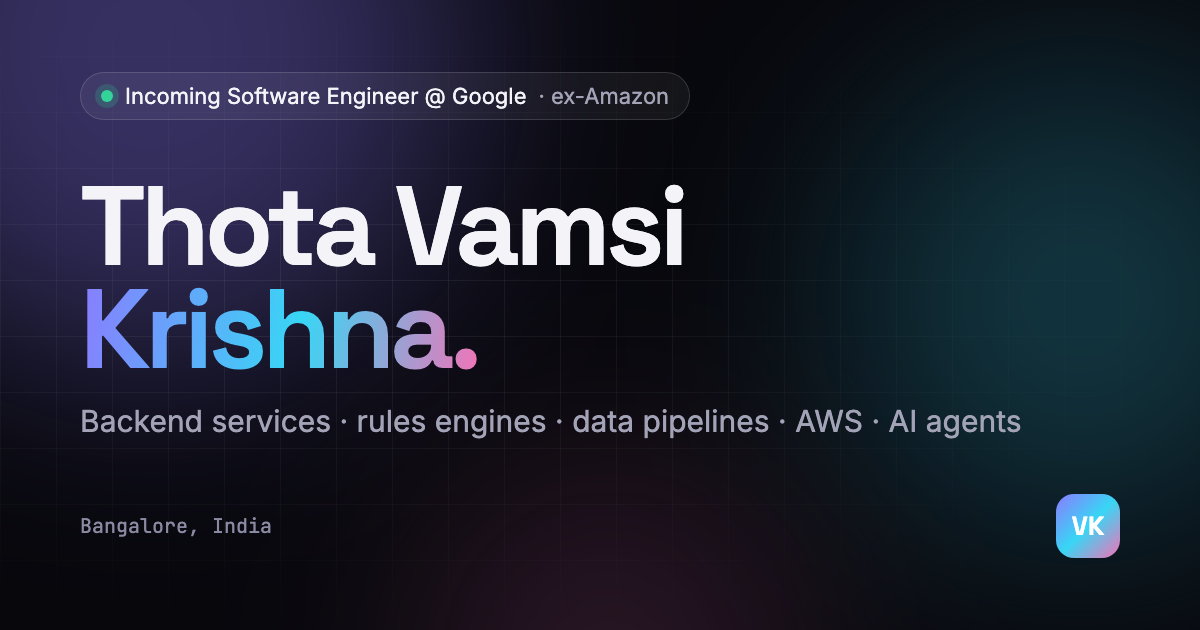
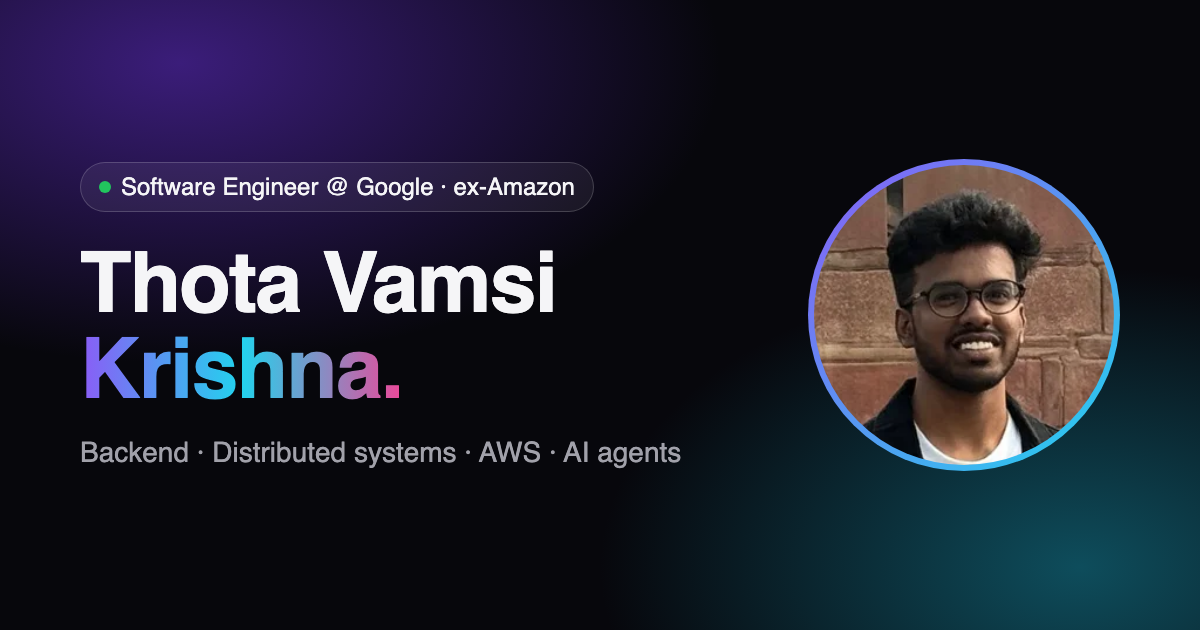
content: Software Engineer at Google (remove 'incoming'), refresh OG image and résumé

diff --git a/index.html b/index.html
@@ -3,10 +3,10 @@
   <head>
     <meta charset="UTF-8" />
     <meta name="viewport" content="width=device-width, initial-scale=1.0, viewport-fit=cover" />
-    <title>Thota Vamsi Krishna · Incoming Software Engineer at Google</title>
+    <title>Thota Vamsi Krishna · Software Engineer at Google</title>
     <meta
       name="description"
-      content="Thota Vamsi Krishna is a Software Engineer joining Google (Nov 2026), ex-Amazon, based in Bangalore. Backend services, rules engines, data pipelines, AWS infrastructure, AI agents and developer tools."
+      content="Thota Vamsi Krishna is a Software Engineer at Google, ex-Amazon, based in Bangalore. Backend services, rules engines, data pipelines, AWS infrastructure, AI agents and developer tools."
     />
     <meta name="author" content="Thota Vamsi Krishna" />
     <meta name="theme-color" content="#07070c" media="(prefers-color-scheme: dark)" />
@@ -21,21 +21,21 @@
 
     <meta property="og:type" content="website" />
     <meta property="og:site_name" content="Thota Vamsi Krishna" />
-    <meta property="og:title" content="Thota Vamsi Krishna · Incoming Software Engineer at Google" />
+    <meta property="og:title" content="Thota Vamsi Krishna · Software Engineer at Google" />
     <meta
       property="og:description"
-      content="Incoming Software Engineer @ Google · ex-Amazon. Backend services, rules engines, data pipelines and AWS infrastructure, plus AI agents and developer tools."
+      content="Software Engineer @ Google · ex-Amazon. Backend services, rules engines, data pipelines and AWS infrastructure, plus AI agents and developer tools."
     />
     <meta property="og:url" content="https://portfolio-beryl-nine-58.vercel.app/" />
     <meta property="og:image" content="https://portfolio-beryl-nine-58.vercel.app/og-image.png" />
     <meta property="og:image:width" content="1200" />
     <meta property="og:image:height" content="630" />
-    <meta property="og:image:alt" content="Thota Vamsi Krishna, incoming Software Engineer at Google, ex-Amazon" />
+    <meta property="og:image:alt" content="Thota Vamsi Krishna, Software Engineer at Google, ex-Amazon" />
     <meta name="twitter:card" content="summary_large_image" />
-    <meta name="twitter:title" content="Thota Vamsi Krishna · Incoming Software Engineer at Google" />
+    <meta name="twitter:title" content="Thota Vamsi Krishna · Software Engineer at Google" />
     <meta
       name="twitter:description"
-      content="Incoming Software Engineer @ Google · ex-Amazon. Backend services, rules engines, data pipelines and AWS infrastructure, plus AI agents and developer tools."
+      content="Software Engineer @ Google · ex-Amazon. Backend services, rules engines, data pipelines and AWS infrastructure, plus AI agents and developer tools."
     />
     <meta name="twitter:image" content="https://portfolio-beryl-nine-58.vercel.app/og-image.png" />
 
@@ -45,7 +45,7 @@
         "@type": "Person",
         "name": "Thota Vamsi Krishna",
         "jobTitle": "Software Engineer",
-        "description": "Incoming Software Engineer at Google (Nov 2026), previously Software Development Engineer at Amazon.",
+        "description": "Software Engineer at Google, previously Software Development Engineer at Amazon.",
         "address": { "@type": "PostalAddress", "addressLocality": "Bangalore", "addressCountry": "IN" },
         "alumniOf": { "@type": "CollegeOrUniversity", "name": "IIIT Jabalpur" },
         "url": "https://portfolio-beryl-nine-58.vercel.app/",
@@ -73,7 +73,7 @@
   <body>
     <noscript>
       <p style="padding: 2rem; font-family: system-ui">
-        Thota Vamsi Krishna, incoming Software Engineer at Google (ex-Amazon). Email
+        Thota Vamsi Krishna, Software Engineer at Google (ex-Amazon). Email
         <a href="mailto:vamsikrishnathota483@gmail.com">vamsikrishnathota483@gmail.com</a>.
       </p>
     </noscript>

diff --git a/src/sections/Experience.tsx b/src/sections/Experience.tsx
@@ -11,7 +11,7 @@ const toIndex = (s: string) => {
   return Number(yr) * 12 + MONTHS.indexOf(mon);
 };
 
-// Axis: Jan 2023 to Jun 2027 so the incoming role has room to "run".
+// Axis: Jan 2023 to Jun 2027 so the current role has room to "run".
 const AXIS_START = toIndex('Jan 2023');
 const AXIS_END = toIndex('Jun 2027');
 const span = AXIS_END - AXIS_START;
@@ -58,7 +58,7 @@ export function Experience() {
   return (
     <section id="experience" aria-labelledby="experience-title" className="relative mx-auto max-w-6xl px-5 py-20 sm:px-8 md:py-28">
       <SectionHeading id="experience" eyebrow="Experience" title={<>My career, as a <span className="text-gradient">distributed trace</span>.</>}>
-        Each role is a span. Pick one to see its attributes, metrics and events. The next span is Google.
+        Each role is a span. Pick one to see its attributes, metrics and events. The latest span is Google.
       </SectionHeading>
 
       <Reveal>
@@ -114,7 +114,7 @@ export function Experience() {
                       <span className="h-2 w-2 shrink-0 rounded-full" style={{ background: `hsl(${hue} 85% 62%)` }} aria-hidden="true" />
                       <span className="truncate font-display text-[15px] font-semibold">{x.company}</span>
                       {x.incoming && (
-                        <span className="rounded-full bg-accent/15 px-1.5 py-0.5 font-mono text-[9px] text-accent uppercase">incoming</span>
+                        <span className="rounded-full bg-accent/15 px-1.5 py-0.5 font-mono text-[9px] text-accent uppercase">current</span>
                       )}
                     </span>
                     <span className="mt-0.5 block truncate pl-4 text-xs text-subtle">
@@ -144,7 +144,7 @@ export function Experience() {
                       transition={{ duration: 0.9, delay: 0.1 + i * 0.08, ease: [0.22, 1, 0.36, 1] }}
                     >
                       {s.months >= 5 && <span className="hidden sm:inline">{fmtDuration(s.months)}</span>}
-                      {x.incoming && <span className="hidden sm:inline">next →</span>}
+                      {x.incoming && <span className="hidden sm:inline">now →</span>}
                     </m.span>
                   </span>
                 </button>
@@ -177,7 +177,7 @@ export function Experience() {
                 </div>
 
                 {e.incoming ? (
-                  <p className="mt-5 max-w-xl text-muted">Joining Google as a Software Engineer in November 2026.</p>
+                  <p className="mt-5 max-w-xl text-muted">Software Engineer at Google since November 2026.</p>
                 ) : (
                   <div className="mt-6 grid gap-6 lg:grid-cols-[1fr_1.6fr]">
                     <div className="space-y-5">

diff --git a/src/data/profile.ts b/src/data/profile.ts
@@ -7,16 +7,16 @@ export const profile = {
   name: 'Thota Vamsi Krishna',
   firstName: 'Vamsi',
   initials: 'VK',
-  headline: 'Incoming Software Engineer at Google',
+  headline: 'Software Engineer at Google',
   location: 'Bangalore, India',
   timezone: 'Asia/Kolkata',
   email: 'vamsikrishnathota483@gmail.com',
   resume: '/Thota_Vamsi_Krishna_Resume.pdf',
   photo: '/images/profile.webp',
   photoFallback: '/images/profile.jpg',
-  status: 'Incoming Software Engineer @ Google · ex-Amazon',
+  status: 'Software Engineer @ Google · ex-Amazon',
   summary:
-    'Software Engineer joining Google (Nov 2026). Previously at Amazon, 1+ year building backend services, rules engines, data pipelines and AWS infrastructure. Delivered a global fee-incentive launch across 8 marketplaces; built tooling that cut P0 investigations by ~90%. I also build AI agents and developer tools.',
+    'Software Engineer at Google. Previously at Amazon, 1+ year building backend services, rules engines, data pipelines and AWS infrastructure. Delivered a global fee-incentive launch across 8 marketplaces; built tooling that cut P0 investigations by ~90%. I also build AI agents and developer tools.',
   roles: ['backend services', 'rules engines', 'data pipelines', 'AWS infrastructure', 'AI agents', 'developer tools'],
 } as const;
 
@@ -57,7 +57,7 @@ export type Experience = {
 
 export const experience: Experience[] = [
   {
-    // Incoming role: intentionally no details.
+    // Current role: intentionally no public details.
     company: 'Google',
     role: 'Software Engineer',
     start: 'Nov 2026',

diff --git a/src/sections/About.tsx b/src/sections/About.tsx
@@ -79,7 +79,7 @@ export function About() {
             </div>
             <div>
               <p className="font-display text-2xl font-semibold">Google</p>
-              <p className="mt-1 text-sm text-muted">Incoming Software Engineer · ex-Amazon</p>
+              <p className="mt-1 text-sm text-muted">Software Engineer · ex-Amazon</p>
             </div>
           </div>
         </Tile>

diff --git a/src/components/Terminal.tsx b/src/components/Terminal.tsx
@@ -88,7 +88,7 @@ export default function Terminal() {
                 <b className="text-fg">{e.role}</b> @ {e.company}
                 {e.team ? ` (${e.team})` : ''}
                 {e.location ? `, ${e.location}` : ''}
-                {e.incoming ? ' (incoming)' : ''}
+                {e.incoming ? ' (current)' : ''}
               </div>
             ))}
           </div>,

diff --git a/README.md b/README.md
@@ -1,6 +1,6 @@
 # Thota Vamsi Krishna · Portfolio
 
-Personal site of **Thota Vamsi Krishna**, incoming Software Engineer at Google (Nov 2026) and ex-Amazon, based in Bangalore. It's a dark, interactive single-page portfolio built with Vite, React 18, TypeScript, Tailwind CSS and Framer Motion.
+Personal site of **Thota Vamsi Krishna**, Software Engineer at Google and ex-Amazon, based in Bangalore. It's a dark, interactive single-page portfolio built with Vite, React 18, TypeScript, Tailwind CSS and Framer Motion.
 
 ![Vite](https://img.shields.io/badge/Vite-8-646CFF?logo=vite&logoColor=white)
 ![React](https://img.shields.io/badge/React-18-61DAFB?logo=react&logoColor=black)
@@ -17,8 +17,8 @@ Personal site of **Thota Vamsi Krishna**, incoming Software Engineer at Google (
 
 The site treats a backend engineer's career like a running system you can poke at.
 
-- **Hero "system map".** I sit at the centre as `vamsi.service`, with my stack (Java, Python, AWS, rules engines, data pipelines, AI agents, React/TS, datastores) orbiting as dependencies. Requests flow along the edges as glowing packets. You can hover or focus a node to see what it covers, or drag it and watch it spring back. Behind it, a cursor-reactive constellation canvas. The name animates in letter by letter, the role words rotate, the CTAs are magnetic, and a status pill reads *Incoming Software Engineer @ Google · ex-Amazon*.
-- **Career as a distributed trace.** Each role is a span on a 2023–2027 time axis. Google shows as a striped "incoming" span. Selecting a span opens its attributes, metrics (e.g. `marketplaces=8`, `ec2_instances=512`) and events. It's a keyboard-navigable tablist.
+- **Hero "system map".** I sit at the centre as `vamsi.service`, with my stack (Java, Python, AWS, rules engines, data pipelines, AI agents, React/TS, datastores) orbiting as dependencies. Requests flow along the edges as glowing packets. You can hover or focus a node to see what it covers, or drag it and watch it spring back. Behind it, a cursor-reactive constellation canvas. The name animates in letter by letter, the role words rotate, the CTAs are magnetic, and a status pill reads *Software Engineer @ Google · ex-Amazon*.
+- **Career as a distributed trace.** Each role is a span on a 2023–2027 time axis. Google shows as the current, striped span. Selecting a span opens its attributes, metrics (e.g. `marketplaces=8`, `ec2_instances=512`) and events. It's a keyboard-navigable tablist.
 - **Lab: incident replay.** A playable, fictional replay of the P0 investigator CLI. It walks five pipeline jobs, streams their outputs, isolates the failing job, types out an LLM root-cause summary and compares time to root cause (5–6 h by hand vs ~30 min).
 - **Fit finder.** A Drools-flavoured rules engine for recruiters. Toggle what the role needs and the matching rules "fire", each backed by real evidence from my work, then mail the match to me in one click.
 - **Skill field.** A hand-rolled force simulation: every skill is a bubble you can grab and fling. Bubbles collide, shy away from the cursor and re-cluster when you pick a group.
